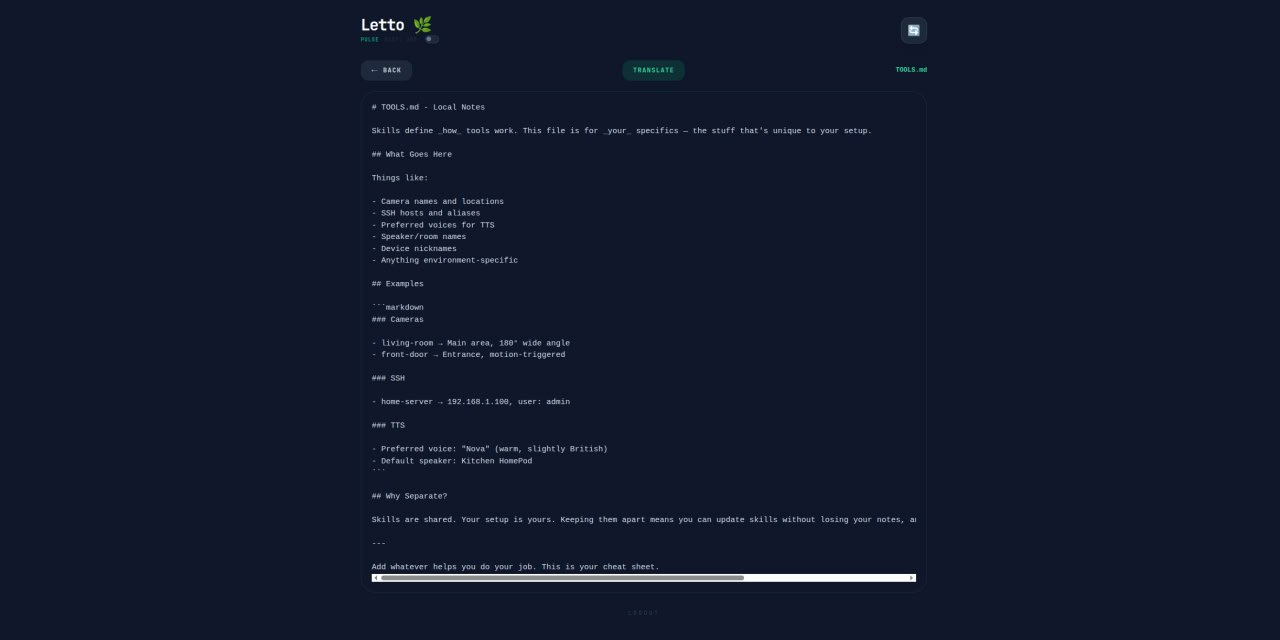
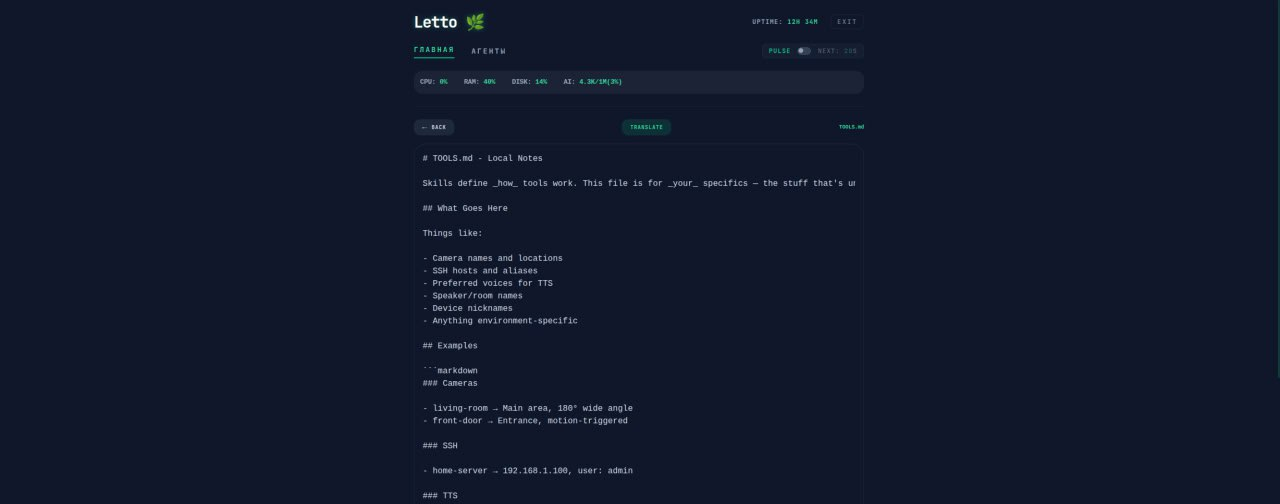
docs: updated all screenshots to v1.0.3 and added digital organization view

diff --git a/README.md b/README.md
@@ -5,24 +5,17 @@
 Модульная панель управления для экосистем OpenClaw. Оптимизирована для мобильных и десктопных экранов.
 
 ![Main Interface](docs/main_interface.jpg)
-*Основной интерфейс мониторинга системы и управления*
+*Основной интерфейс мониторинга системы и управления (v1.0.3)*
+
+![Digital Org](docs/digital_org.jpg)
+*Вкладка "Агенты": Проектирование цифровой организации и отделов*
 
 ![File Viewer](docs/file_viewer.jpg)
-*Встроенный просмотрщик файлов с поддержкой перевода*
-
-## Особенности
-- **Адаптивный дизайн:** Стиль "Dark Tech", шрифт JetBrains Mono.
-- **Мониторинг системы:** CPU, RAM, Disk, Uptime.
-- **AI Context Load:** Визуализация использования контекстного окна (токенов).
-- **Интеграция с Git:** История последних коммитов и информация о текущей ветке в реальном времени.
-- **Workspace Explorer:** Просмотр и чтение файлов рабочего пространства.
-- **Менеджер Heartbeat:** Редактирование и синхронизация задач для фоновых проверок.
-- **Магический вход:** Авторизация через GET-параметр `?key=` (удобно для закладок).
-- **Трекинг агентов:** Список активных процессов OpenClaw.
+*Встроенный просмотрщик файлов с поддержкой перевода и навигацией*
 
 ## Доступные блоки и модули
 - **System Stats:** Быстрый взгляд на ресурсы (CPU, RAM, DISK).
-- **AI Context Load:** Контроль за наполнением контекстного окна.
+- **AI Context Status:** Контроль за наполнением контекстного окна в реальном времени.
 - **Git History:** Лента последних изменений с указанием веток.
 - **Heartbeat Tasks:** Редактор задач для фонового агента.
 - **Workspace Explorer:** Файловый менеджер с предпросмотром кода.
@@ -60,7 +53,7 @@
    *Для входа по ссылке используйте: `http://127.0.0.1:3000/?key=ВАШ_КЛЮЧ`*
 
 ## Техническая структура
-- `/api`: Модульная логика на Python (авторизация, файлы, система, heartbeat).
+- `/api`: Модульная логика на Python (авторизация, файлы, система, heartbeat, cron).
 - `/static`: Фронтенд (HTML, Tailwind CSS, Vanilla JS).
 - `/scripts`: Локальное хранилище данных (токены, контекст AI).
 
